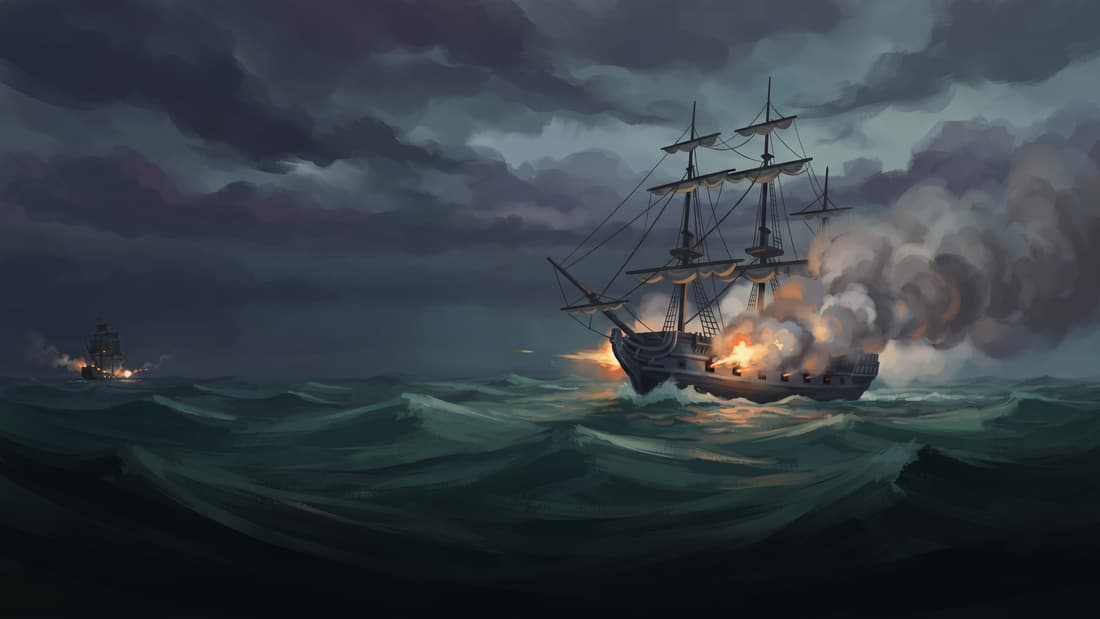
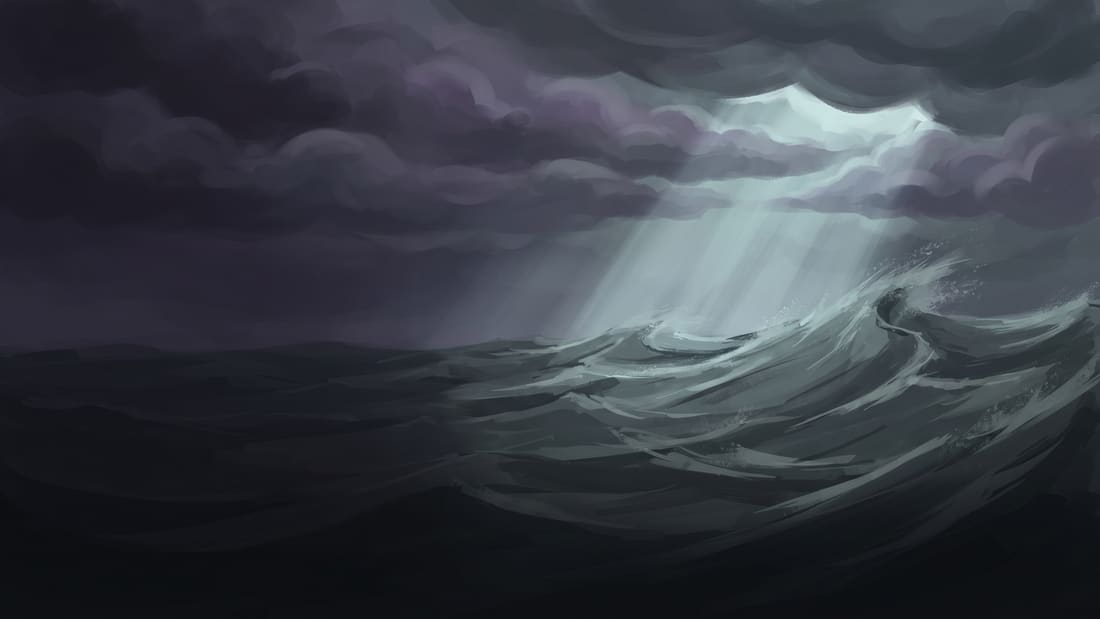
Landing pillars: environment plates only, no generated objects
Regenerated as EMPTY environments: water, sky, light and landforms. No boats,
no ships, no creatures, no wreckage. The previous pass painted a fishing boat,
a firing warship and a great jaw, and a generated ship is a DIFFERENT ship from
the one the player actually sails. The game has its own sprites for every
object in it; the plate's job is the place, not the thing standing in it.

  the cast       sheltered turquoise shallows at first light
  the campaign   hostile grey-green swell under a breaking storm
  the gauntlet   the abyss, one cold shaft dying before it reaches the bottom

Style reference stays our own approved plates (voyage_coastal,
raid-tollmaster, voyage_deep) as image_input, which is what fixed the realism
problem, plus an explicit negative stack naming every object class so nothing
wanders back into frame.

Composed with the LEFT THIRD deliberately dark and the light toward the right,
so no mirroring is needed on install and the copy still lands on solid ground.
Empty plates are quieter than subject art, so they run at 0.85 opacity rather
than the 0.42 the borrowed hub art used.

26KB, 26KB and 10KB.

diff --git a/web/app/page.tsx b/web/app/page.tsx
@@ -126,13 +126,17 @@ export default async function HomePage() {
               }}
             >
               {/* eslint-disable-next-line @next/next/no-img-element */}
-              {/* Purpose-painted for these tiles, so it can carry more weight
-                  than the borrowed hub art it replaced: opacity 0.42 -> 0.72,
-                  and the scrim only has to protect the LEFT half where the copy
-                  sits. Each plate was generated with its subject left of centre
-                  and mirrored on install, so the subject lands in the clear. */}
+              {/* Purpose-painted ENVIRONMENT plates: water, sky, light and
+                  landforms, no vessels and no creatures. The game has its own
+                  sprites for those, and a generated ship would be a different
+                  ship from the one the player actually sails.
+                  
+                  Empty plates are quieter than subject art, so they run at 0.85
+                  rather than the 0.42 the borrowed hub art used, and each was
+                  composed with its left third deliberately dark so the copy
+                  still lands on solid ground. */}
               <img src={p.art} alt="" aria-hidden loading="lazy" decoding="async"
-                style={{ position: 'absolute', inset: 0, width: '100%', height: '100%', objectFit: 'cover', opacity: 0.72 }} />
+                style={{ position: 'absolute', inset: 0, width: '100%', height: '100%', objectFit: 'cover', opacity: 0.85 }} />
               <div aria-hidden style={{ position: 'absolute', inset: 0, background: 'linear-gradient(100deg, rgba(7,13,22,0.97) 34%, rgba(7,13,22,0.72) 62%, rgba(7,13,22,0.30) 100%)' }} />
               <div style={{ position: 'relative', padding: '1.5rem 1.4rem' }}>
                 <p className="font-karla font-800 uppercase tracking-[0.2em]" style={{ fontSize: '0.54rem', color: '#f0c040' }}>{p.eyebrow}</p>
